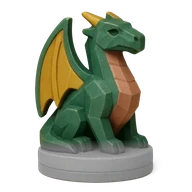
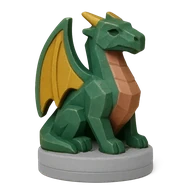
v1.63.4: Drachenpranken ohne Grauschleier - aus der Fassung vor v1.1.9 zurueckgeholt
Nur gruene und orange Pixel uebernommen, der graue Sockel bleibt. 576- und
192-px-Fassung erneuert.

Kette: npm test RUECKGABECODE 0 - build:app - build:single - test_boot 3/3 -
verify-boot - drive3 KEINE FEHLER - messe_kulissen 57/57.

Changed region(s): [[0.1875, 0.7188, 0.7812, 0.8125]]

diff --git a/CHANGELOG.md b/CHANGELOG.md
@@ -1,5 +1,14 @@
 # Changelog - Gambit Rise
 
+## 1.63.4 - der Drache steht wieder sauber auf seinem Sockel
+- Besitzer: "der Sockel vom Drachen sieht nicht perfekt aus". URSACHE im Bild
+  selbst: als v1.1.9 den Drachensockel grau machte, lief die Grautoenung
+  weich bis in die Pranken - ein weisser Schleier ueber den Fuessen.
+- Die Pranken sind aus der Fassung vor v1.1.9 zurueckgeholt, und zwar NUR die
+  gruenen und orangen Pixel des Drachen: der graue Sockel bleibt, der alte
+  Goldring und die waermeren Grautoene am Tellerrand kommen nicht zurueck.
+  Beide Groessen (576 und 192 px) erneuert.
+
 ## 1.63.3 - klassisches Brett erhaben, Figuren im Schach eine Spur kleiner
 - Besitzer: "die Felder vom klassischen Schach nicht so perfekt wie die
   neuerdings - die haben eine kleine Rundung und Kontur und wirken erhaben".

diff --git a/design/AUFGABEN-2026-09-25.md b/design/AUFGABEN-2026-09-25.md
@@ -13,7 +13,7 @@ Stand wird beim Abarbeiten nachgefuehrt: [x] erledigt, [ ] offen, [~] angefangen
 - [x] L8 (Markenvorgaben erlauben keine Aenderung) Google-Play-Abzeichen runder? (Markenvorgaben pruefen)
 - [x] L9 Welt: Kapitel I (Kronland) zeigen und ein helles Bergkapitel - mehr Abwechslung
 - [x] L10 Waechter im Gefecht-Bild: Groesse und Sockel pruefen (und im Spiel)
-- [ ] L11 Sockel des Drachen pruefen
+- [x] L11 Sockel des Drachen pruefen
 
 ## Logo
 - [x] G1 Logo nach Vorlagebild: Blitz hinter GAMBIT und Rise, Rise-Schrift verfeinern, Stern. Statische UND animierte Fassung (Blitz animiert)
